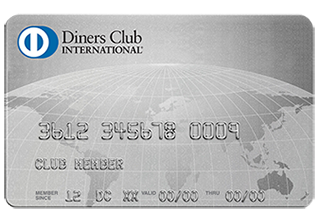
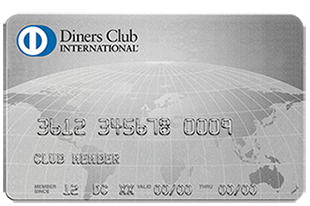
status

diff --git a/static/html/dashboard.html b/static/html/dashboard.html
@@ -222,7 +222,7 @@
                                 <input id="diners-pay-btn" type="submit"  class="btn btn-warning btn-block" value="PAY NOW" />
                             </div>
                         </div>
-                         <div class="container-fluid" style= "  margin-top: 0px;  margin-bottom: 0px; margin-right:0px; margin-left: 0px; overflow: hidden;">
+                         <div class="container-fluid" style= "  margin-top: 0px;  margin-bottom: 0px; margin-right:50px; margin-left: 0px; overflow: hidden;">
    
                         <img src="static/images/dinersclub.png" class="img-responsive">
                         </div>
